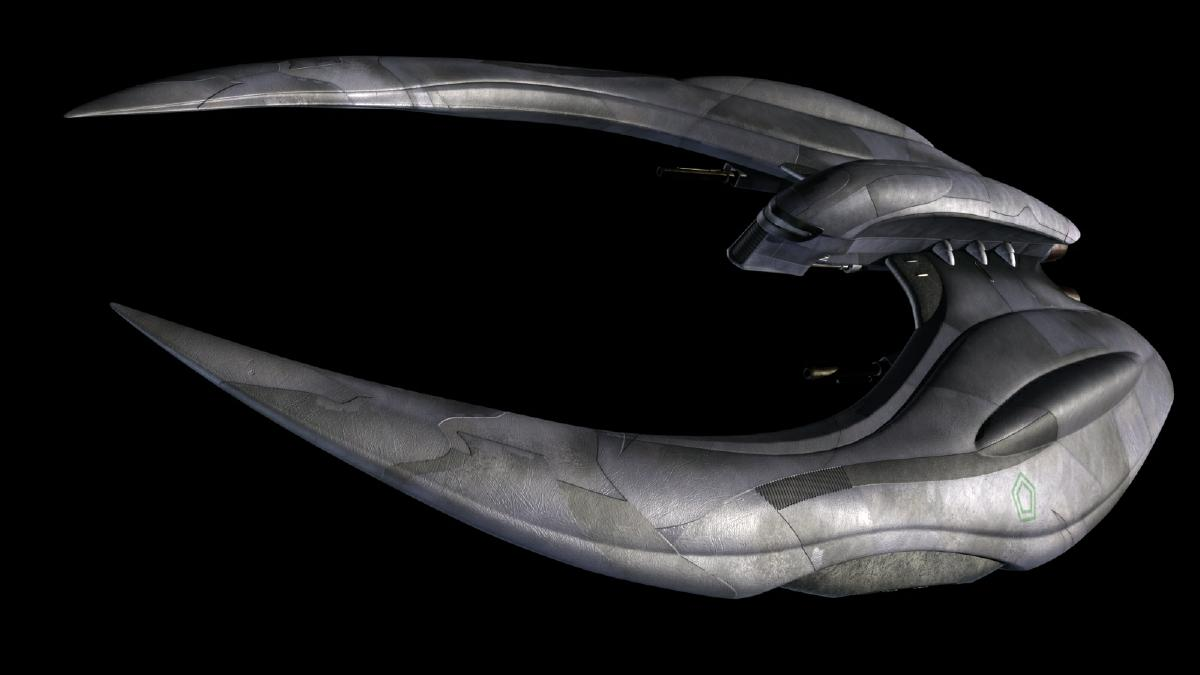
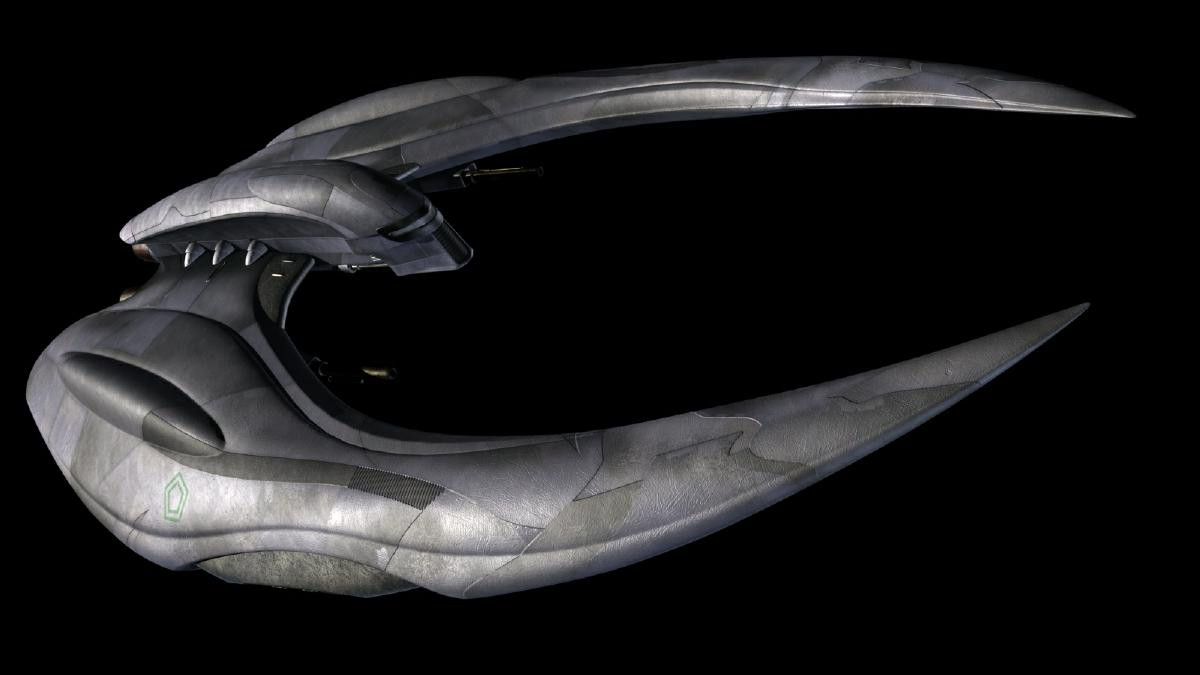
Flip picture and add background

diff --git a/index.html b/index.html
@@ -3,19 +3,20 @@
 <html>
 	<head>
 		<link rel="stylesheet" type="text/css" href="site.css">
+		<link href='https://fonts.googleapis.com/css?family=Space+Mono:400,700' rel='stylesheet' type='text/css'>
 		<title>Rachel Leffel</title>
 	</head>
 	<body>	
 	<div id="wrapper">
 		<header>
-			<h1 id=logo>Invisibility cloaking</h1>
+			<h1 id=logo>Secrets</h1>
 		</header>
 		<section>
 		  <img class="spaceship" src="spaceship.jpg">
 		 </div>
 		</section>
 		<section>
-			<p>"Omg a spaceship."</p>
+			<p><b>Omg a spaceship.</b></p>
 		</section>
 	</div>
 		<footer>

diff --git a/site.css b/site.css
@@ -25,8 +25,9 @@
 p {
 	text-align: center;
 	color: #ffffff;
+	font-family: 'Space Mono';
 }
 body {
-	background-color: #000000;
+	background-image: url("background.jpg");
 }
 
